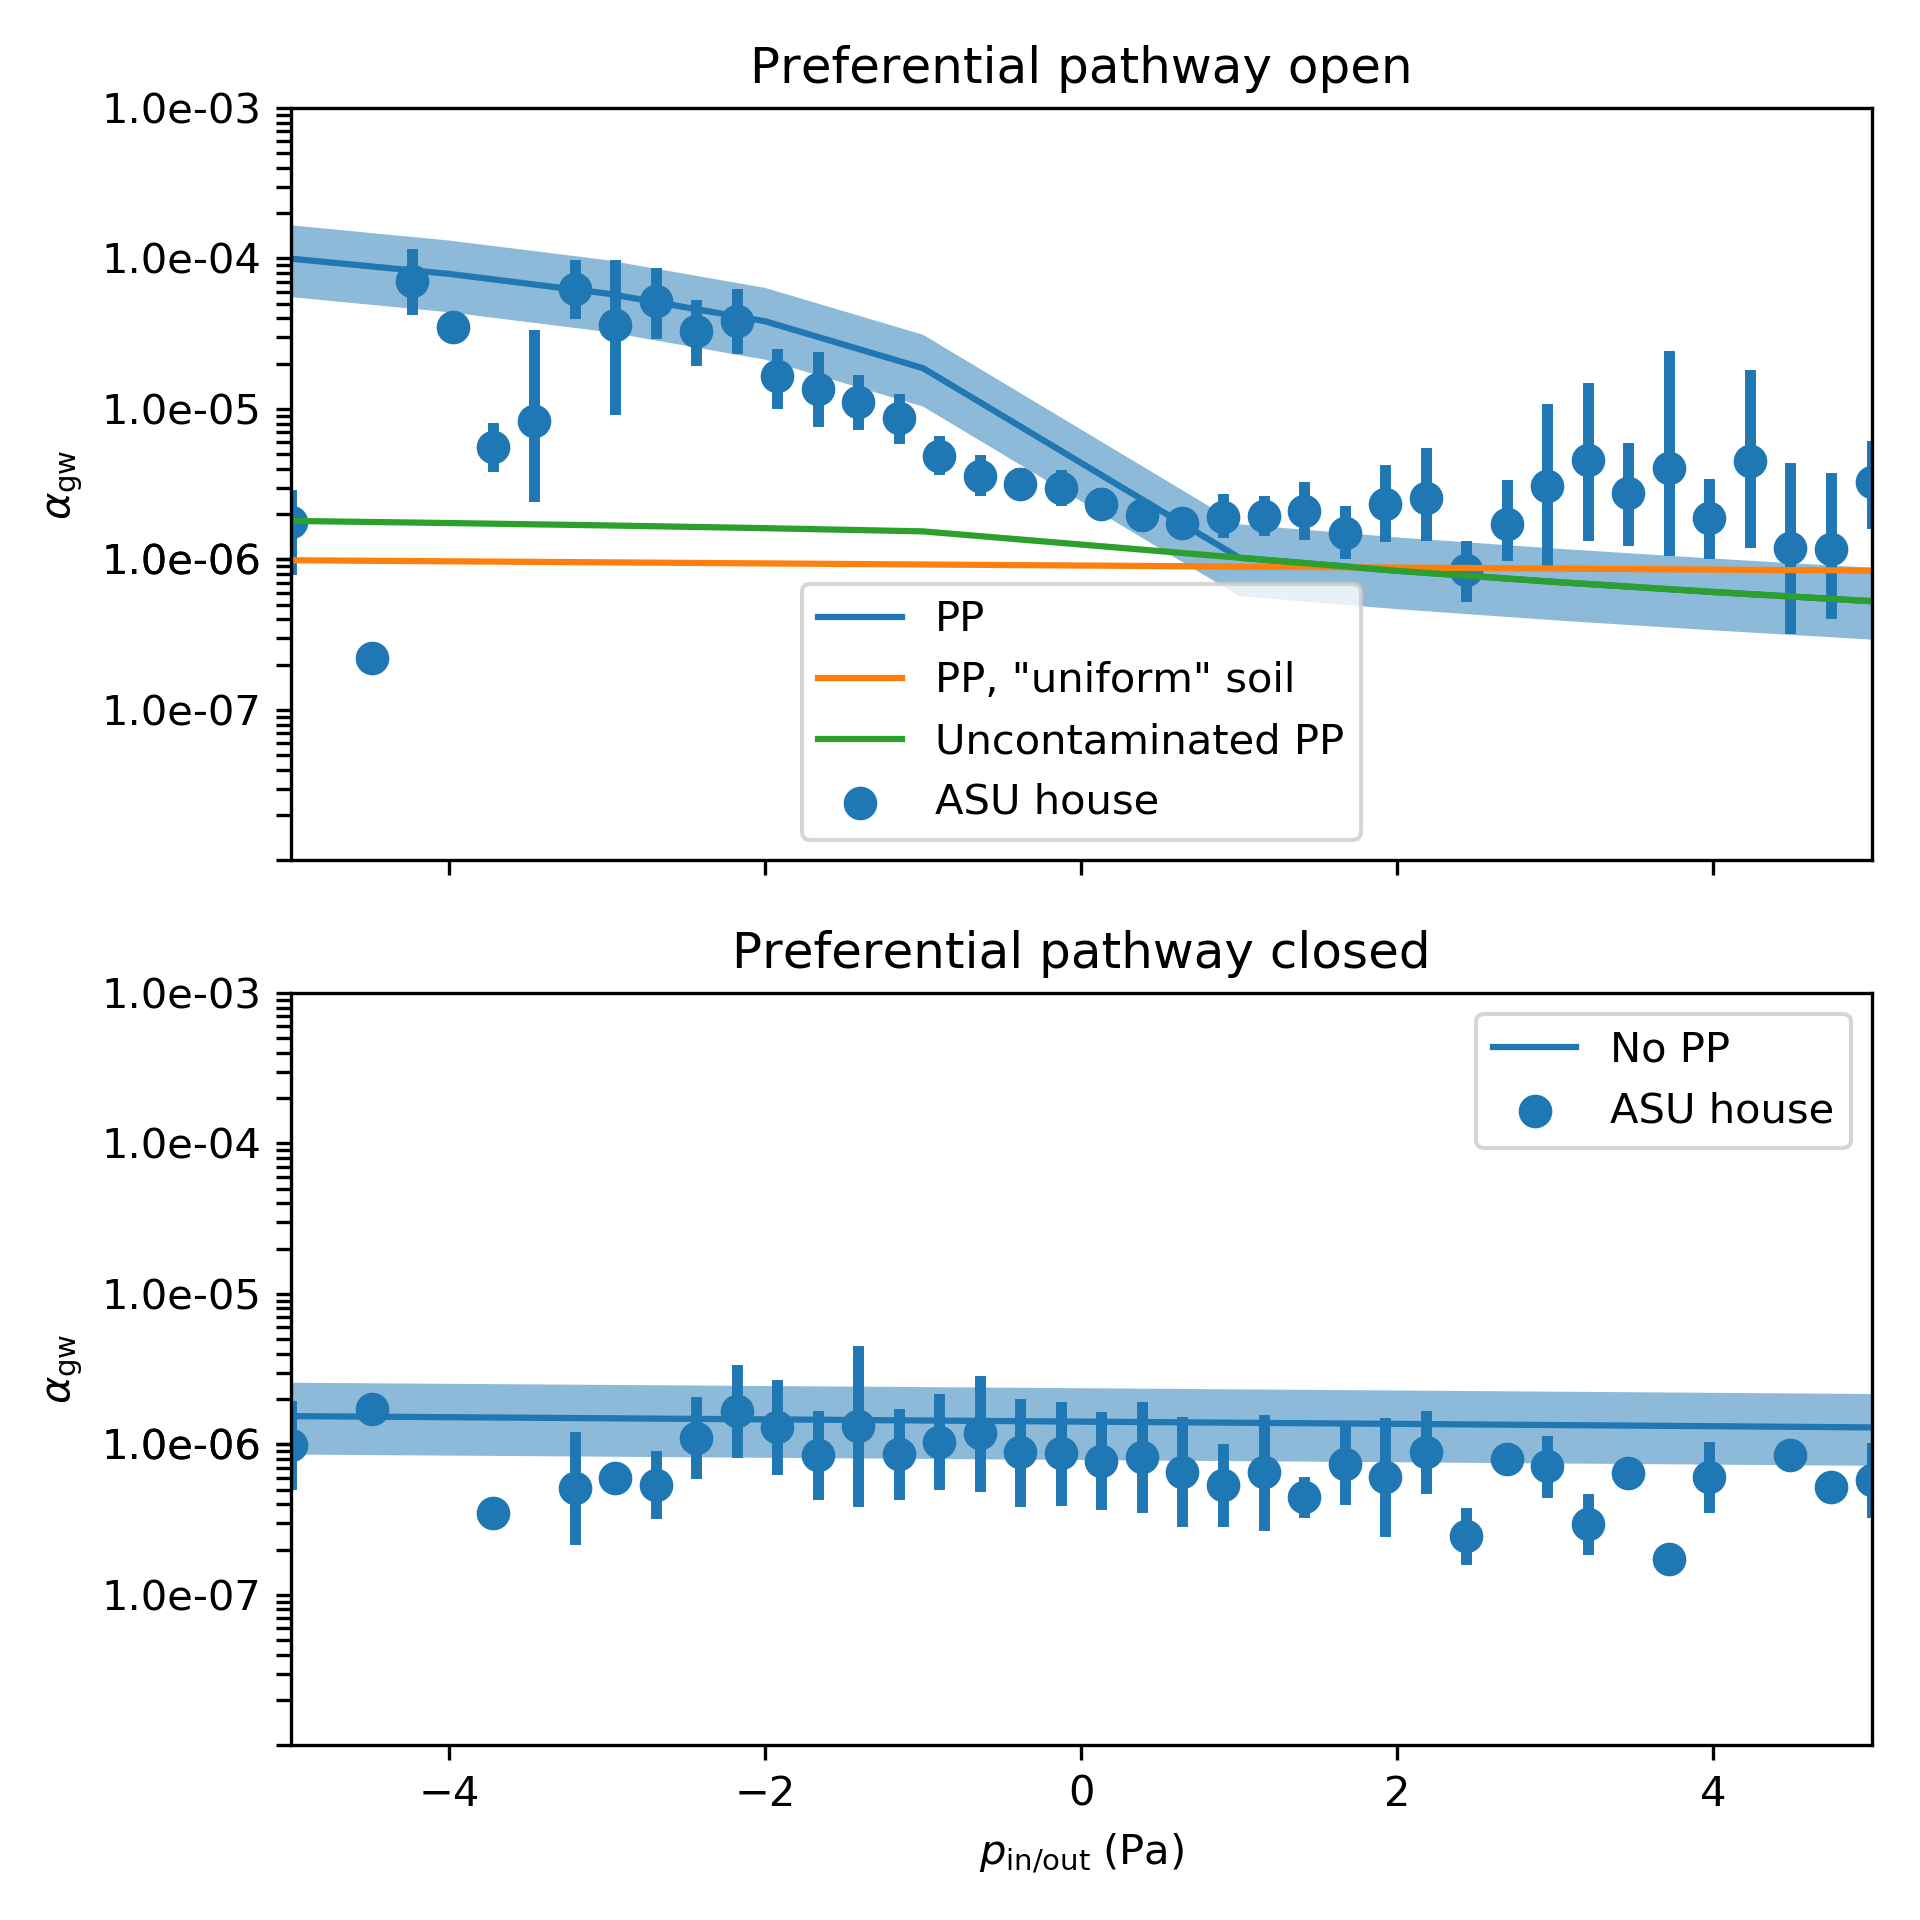
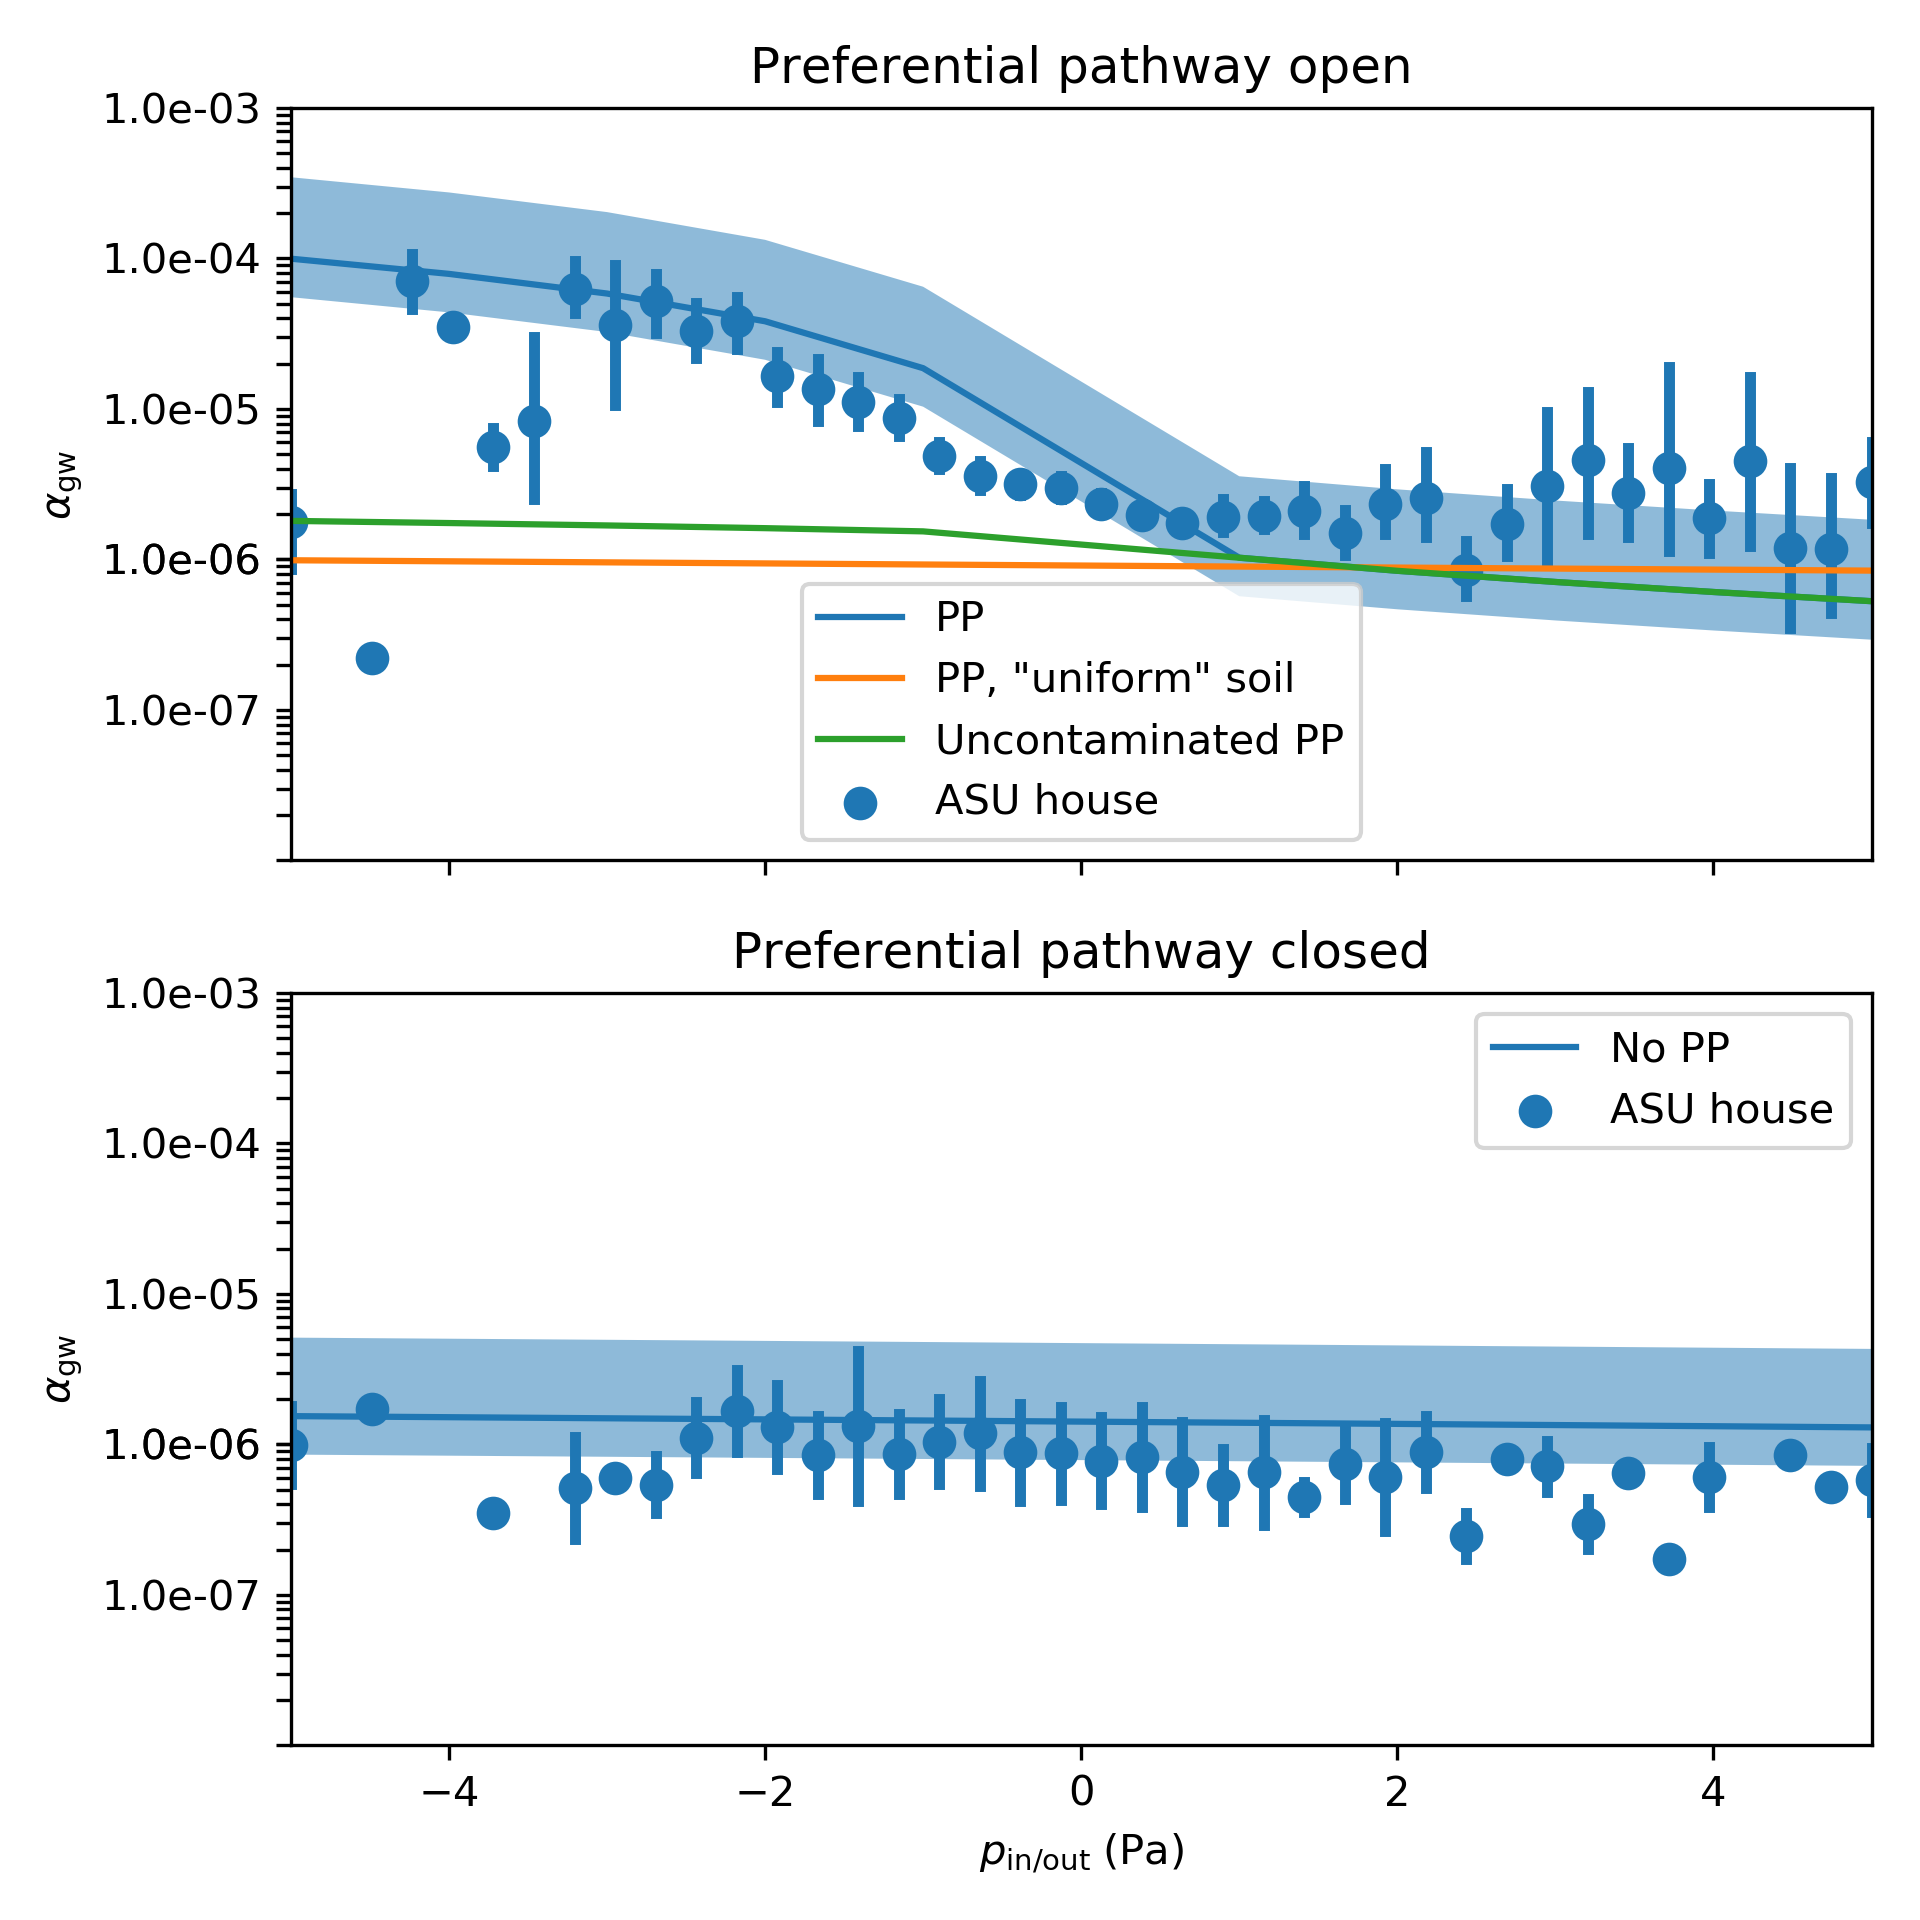
New "error" spans with interpolated Ae values

Changed region(s): [[0.1562, 0.6875, 0.9688, 0.75], [0.1562, 0.0938, 0.9688, 0.3125]]

diff --git a/code/figures.py b/code/figures.py
@@ -156,25 +156,36 @@ class Modeling:
         sim = sim[sim_data_to_remove[0]]
 
         p_vals = sim['IndoorOutdoorPressure'].unique()
-        ae = asu['AirExchangeRate'].describe(percentiles=[0.1,0.9])
+        Ae = asu['AirExchangeRate'].describe(percentiles=[0.05,0.1,0.9,0.95])
 
 
-        new_sim_vals = pd.DataFrame({
-            'IndoorOutdoorPressure': np.append(p_vals, p_vals),
-            'AirExchangeRate': np.append(),
-        })
-        #Ae_vals =
-        print(new_sim_vals)
-        print(analysis[['10%','90%']].values)
+        Ae_low = Ae['5%']
+        Ae_high = Ae['95%']
 
-        # options
-        min_Ae, max_Ae = 0.3, 0.9 # the min and max air exchange used for the "fill"
+        print(Ae_low, Ae_high)
+
+        from scipy.interpolate import interp2d
+
+        for simulation in ['Pp', 'No Pp']:
+            interp_func = interp2d(
+                sim.loc[sim['Simulation']==simulation]['IndoorOutdoorPressure'],
+                sim.loc[sim['Simulation']==simulation]['AirExchangeRate'],
+                sim.loc[sim['Simulation']==simulation]['logAttenuationGroundwater'],
+            )
+            for Ae_now in [Ae_low, Ae_high]:
+                new_sim_vals = pd.DataFrame({
+                    'IndoorOutdoorPressure': p_vals,
+                    'AirExchangeRate': np.repeat(Ae_now, len(p_vals)),
+                    'Simulation': np.repeat(simulation, len(p_vals)),
+                    'logAttenuationGroundwater': interp_func(p_vals, Ae_now),
+                })
+                sim = sim.append(new_sim_vals, ignore_index=True, sort=False)
 
         fig, (ax1,ax2) = plt.subplots(2,1, sharex=True, sharey=True, figsize=[6.4, 6.4], dpi=300)
 
-        pp_max = sim.loc[(sim['Simulation']=='Pp')&(sim['AirExchangeRate']==min_Ae)]
+        pp_max = sim.loc[(sim['Simulation']=='Pp')&(sim['AirExchangeRate']==Ae_low)]
         pp = sim.loc[(sim['Simulation']=='Pp')&(sim['AirExchangeRate']==0.5)]
-        pp_min = sim.loc[(sim['Simulation']=='Pp')&(sim['AirExchangeRate']==max_Ae)]
+        pp_min = sim.loc[(sim['Simulation']=='Pp')&(sim['AirExchangeRate']==Ae_high)]
 
 
         ax1.plot(pp['IndoorOutdoorPressure'], pp['logAttenuationGroundwater'],label='PP')
@@ -208,9 +219,9 @@ class Modeling:
         )
 
 
-        no_pp_max = sim.loc[(sim['Simulation']=='No Pp')&(sim['AirExchangeRate']==min_Ae)]
+        no_pp_max = sim.loc[(sim['Simulation']=='No Pp')&(sim['AirExchangeRate']==Ae_low)]
         no_pp = sim.loc[(sim['Simulation']=='No Pp')&(sim['AirExchangeRate']==0.5)]
-        no_pp_min = sim.loc[(sim['Simulation']=='No Pp')&(sim['AirExchangeRate']==max_Ae)]
+        no_pp_min = sim.loc[(sim['Simulation']=='No Pp')&(sim['AirExchangeRate']==Ae_high)]
 
         ax2.plot(no_pp['IndoorOutdoorPressure'], no_pp['logAttenuationGroundwater'], label='No PP')
         ax2.fill_between(no_pp['IndoorOutdoorPressure'], no_pp_min['logAttenuationGroundwater'], no_pp_max['logAttenuationGroundwater'],alpha=0.5)
